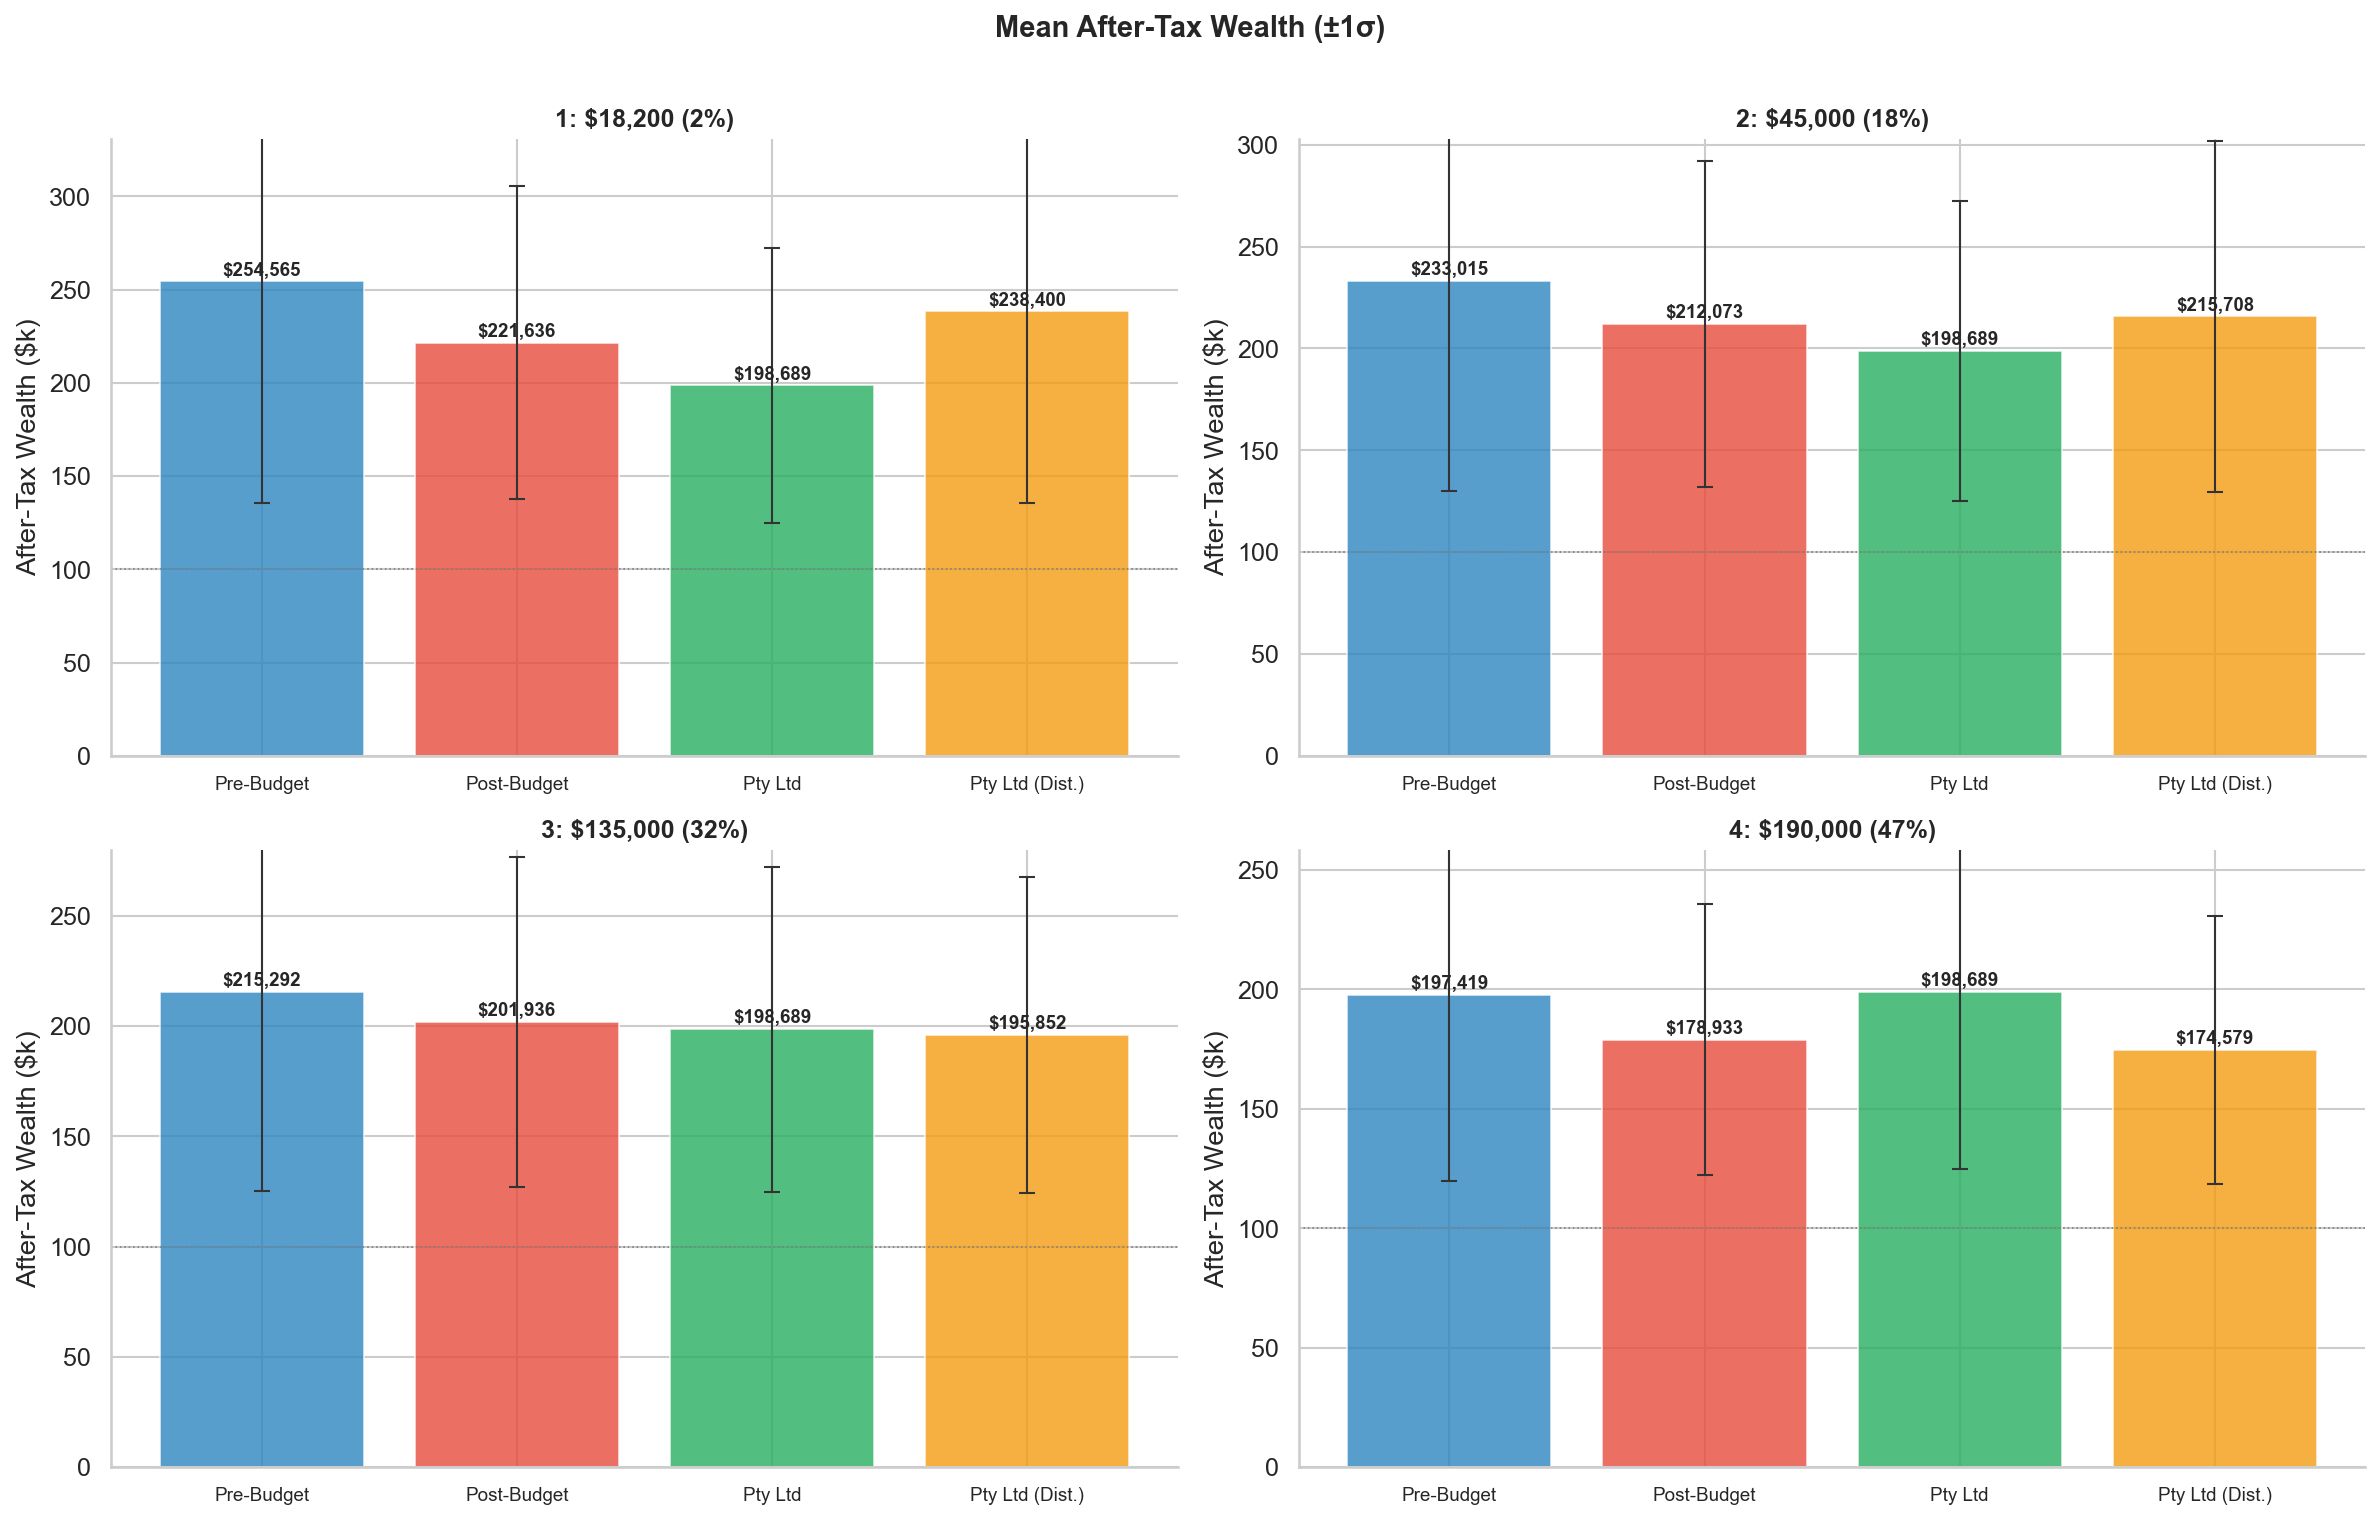
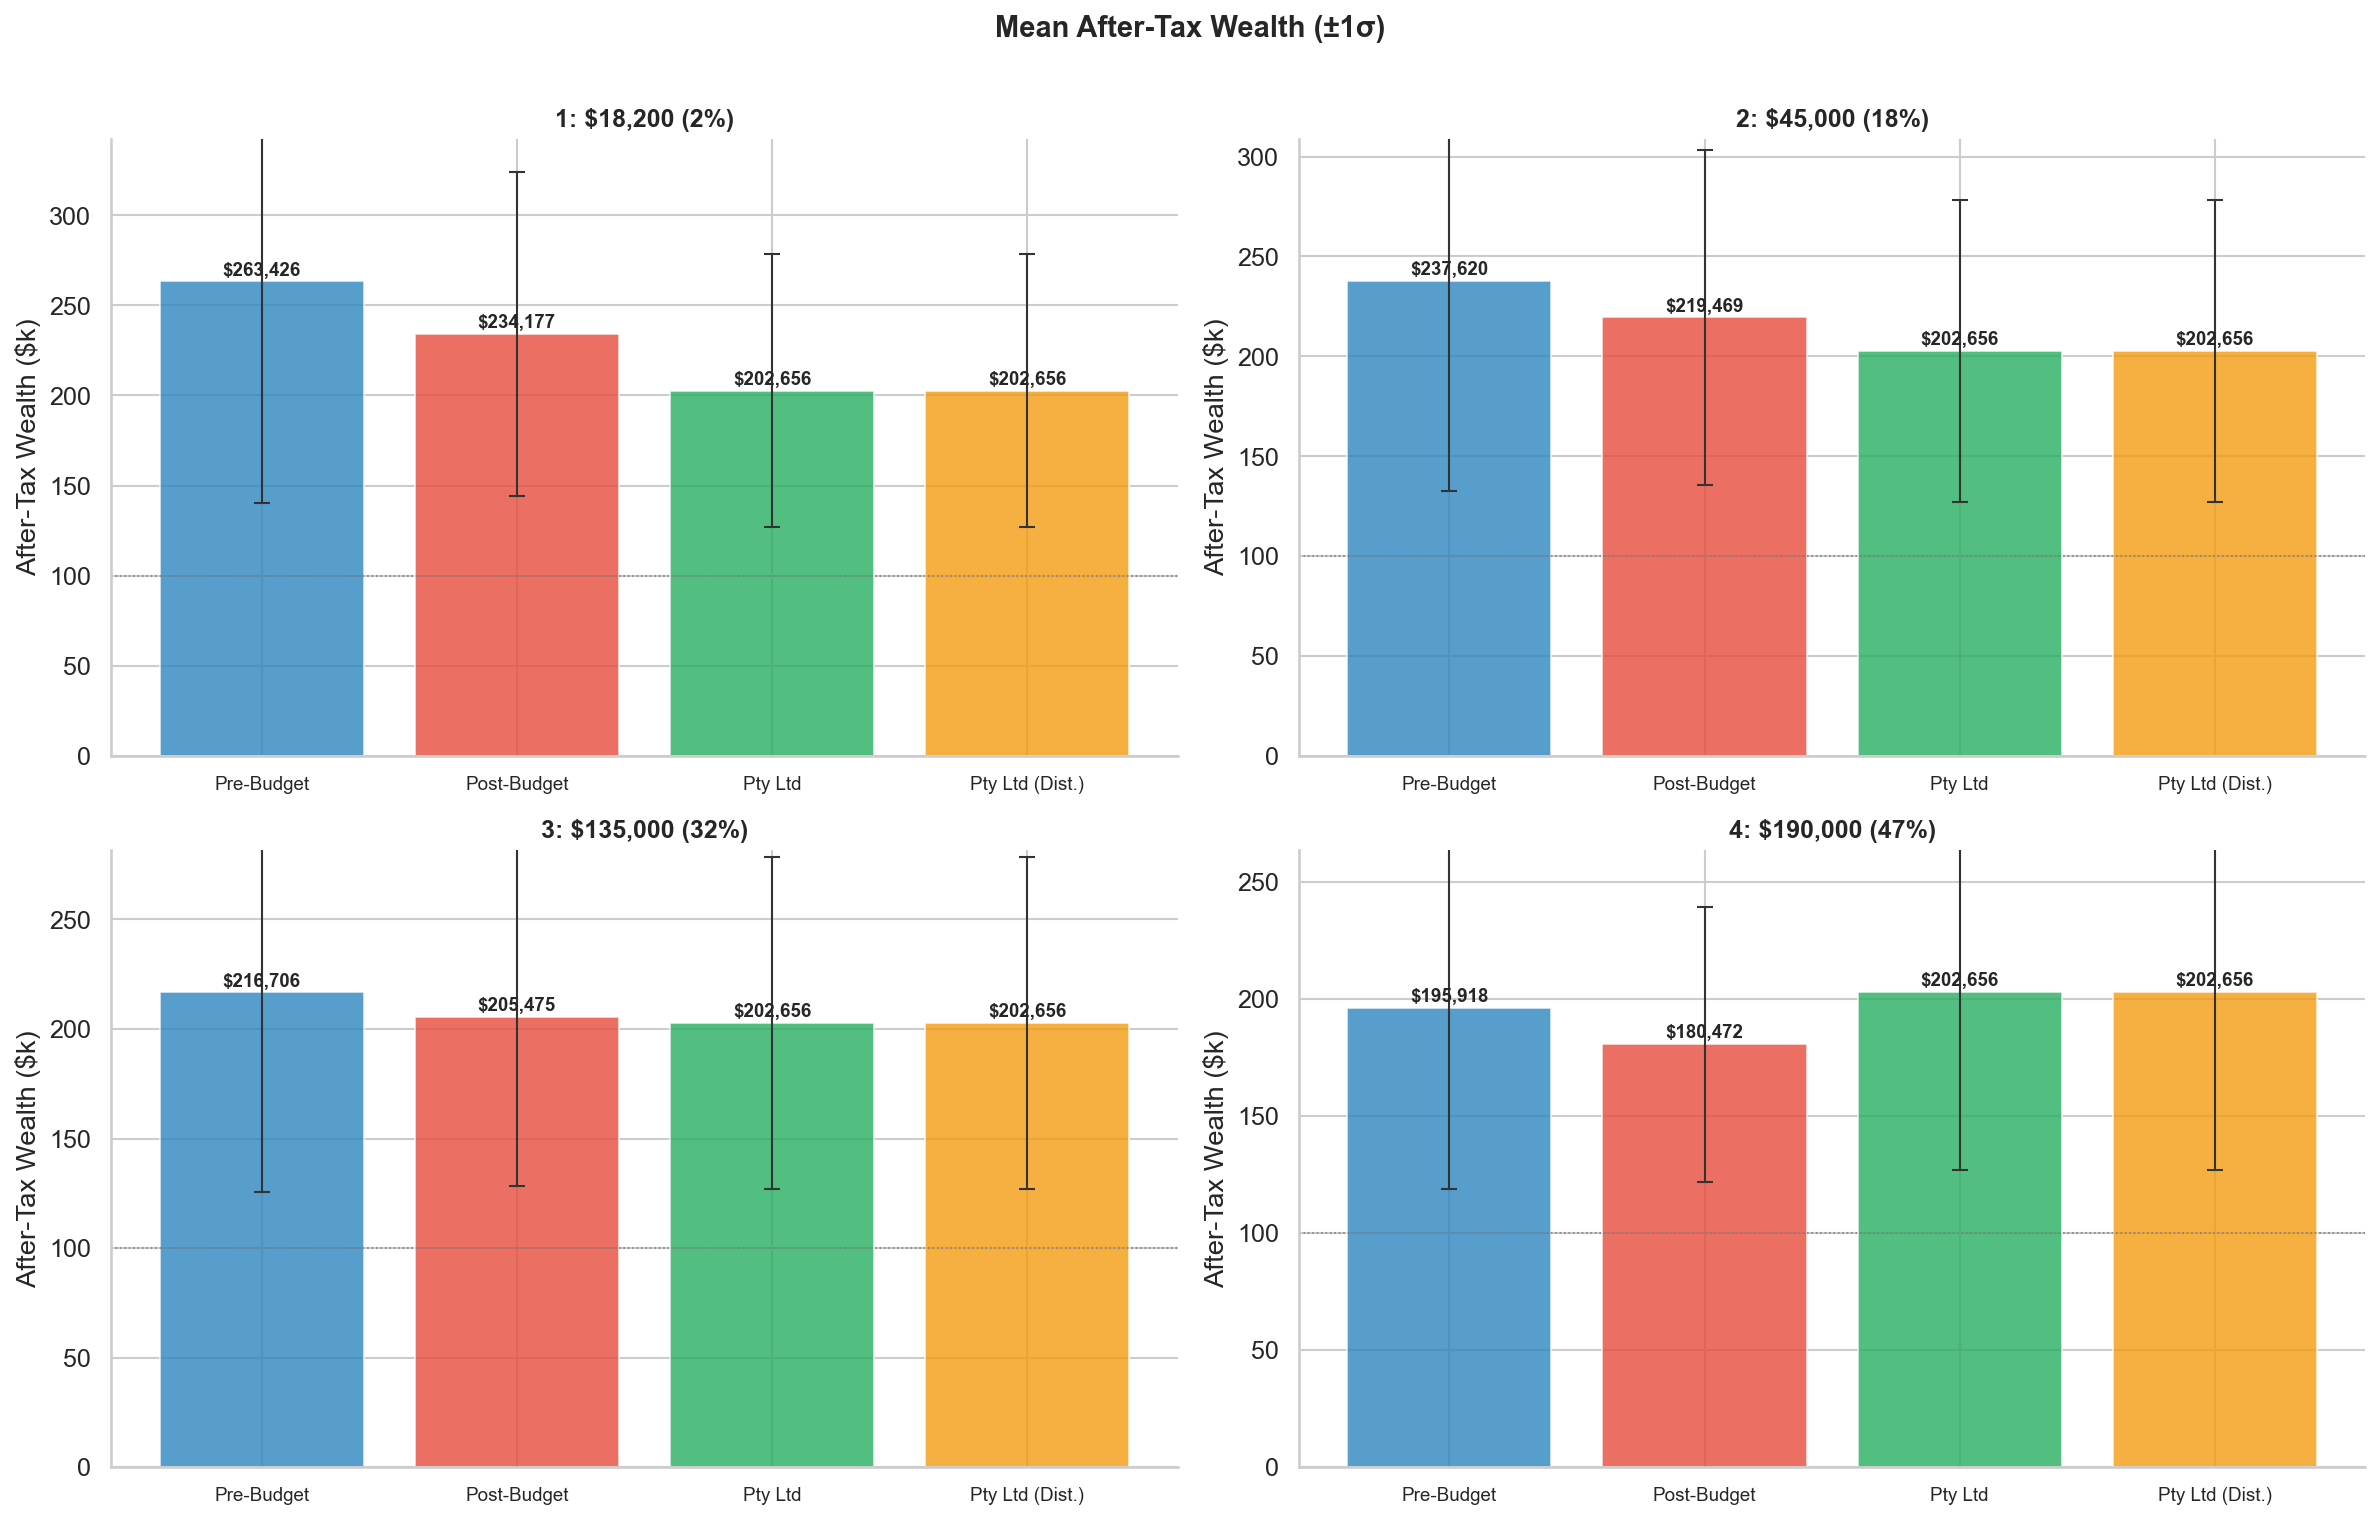
Retirement bracket (30%), VAS returns (6% CG, 3% yield)

diff --git a/scenarios.py b/scenarios.py
@@ -53,14 +53,15 @@ N_SIMS       = 10_000
 # Smaller sample for sensitivity sweeps — speed up dev, can increase for final
 S_SIMS       = 1_000
 
-CG_MEAN   = 0.07
-DIV_YIELD = 0.02
+CG_MEAN   = 0.06
+DIV_YIELD = 0.03
 CPI       = 0.025
 CORP_RATE = 0.30
 RHO       = 0.35
 
 # Pty Ltd: going concern (30% flat, no distribution) or liquidate at year 10
 PTY_DISTRIBUTE = False
+RETIRE_MR     = 0.30   # tax bracket at retirement/distribution
 
 # Dividend franking: most ASX dividends are fully franked at 30%
 FRANKING_PCT  = 0.80   # fraction of dividends that are fully franked
@@ -257,12 +258,13 @@ def simulate(mr, scenario):
     total_pf = values.sum(axis=1)
 
     if (scenario == 'Pty Ltd' and PTY_DISTRIBUTE) or scenario == 'Pty Ltd (Dist.)':
-        roc       = np.minimum(total_pf, INITIAL)  # initial capital, tax-free return
-        dividend  = total_pf - roc                  # profits above initial capital
+        roc       = np.minimum(total_pf, INITIAL)
+        dividend  = total_pf - roc
         max_frank = dividend * CORP_RATE / (1 - CORP_RATE)
         franking  = np.minimum(cum_franking, max_frank)
         grossed_up = dividend + franking
-        ind_tax   = grossed_up * mr
+        ind_rate  = RETIRE_MR if scenario == 'Pty Ltd (Dist.)' else mr
+        ind_tax   = grossed_up * ind_rate
         net_tax   = ind_tax - franking
         final     = roc + dividend - net_tax
         total_tax = cum_div_tax + cum_cgt + np.maximum(net_tax, 0) - np.maximum(-net_tax, 0)